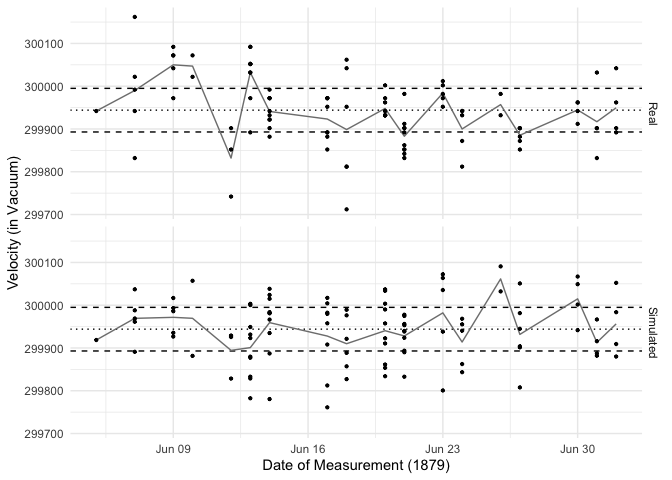
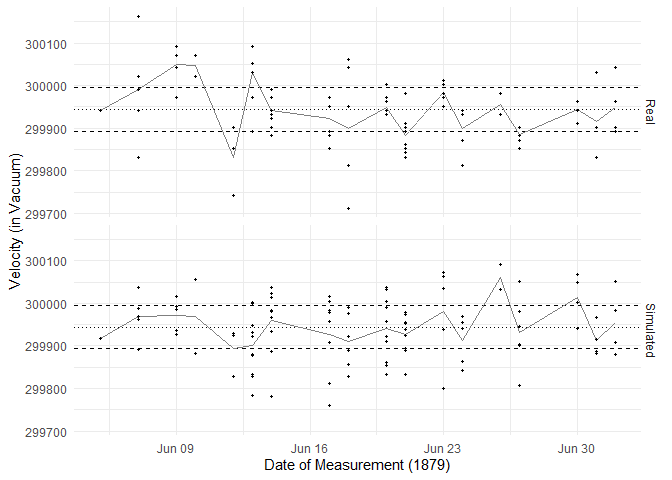
c02 rev

diff --git a/challenges/c02-michelson-assignment.md b/challenges/c02-michelson-assignment.md
@@ -170,9 +170,9 @@ df_q1 %>%
 
 **Observations**: - Write your observations here! - (Your response here)
 The recreation of the table has more significant figures. - Why might
-your table differ from Michelson’s? - (Your response here) Considering
-the time when the study was done, the mean could have been calculated by
-hand, leaving some digits behind.
+your table differ from Michelson’s? - (Your response here) When
+Michelson conducted the experiment, he could have rounded numbers to
+account for error.
 
 The `Velocity` values in the dataset are the speed of light *in air*;
 Michelson introduced a couple of adjustments to estimate the speed of
@@ -243,7 +243,9 @@ cat("Actual error:", error_real)
 uncertainty) greater or less than the true error? - (Your response here)
 Michelson’s estimate is less than the true error. - Make a quantitative
 comparison between Michelson’s uncertainty and his error. - (Your
-response here) Michelson’s uncertainty is smaller than his error.
+response here) Michelson’s uncertainty was 92 km/s, while the actual
+error was 151.542 km/s, which means the error was about 1.5 times the
+uncertainty.
 
 The following plot shows all of Michelson’s data as a [control
 chart](https://en.wikipedia.org/wiki/Control_chart); this sort of plot
@@ -320,16 +322,24 @@ df_q2 %>%
 
 ![](c02-michelson-assignment_files/figure-gfm/q4-cf-real-simulated-1.png)<!-- -->
 
-**Observations**: Similarities - (your responses here) The sign of the
-slope of the mean curve matches. Differences - (your responses here) The
-actual values of the dots, and therefore the mean values, vary.
+**Observations**: Similarities - (your responses here) The deviation of
+the points exhibit a similar range. Differences - (your responses here)
+The actual values of the dots, and therefore the mean values, vary.
 
 ### **q5** You have access to a few other variables. Construct a few visualizations of `VelocityVacuum` against these other factors. Are there other patterns in the data that might help explain the difference between Michelson’s estimate and `LIGHTSPEED_VACUUM`?
 
 ``` r
 error_vs_temp <- df_michelson %>% 
   summarize("Real_error" = LIGHTSPEED_VACUUM - Velocity, Temp)
+```
 
+    ## Warning: Returning more (or less) than 1 row per `summarise()` group was deprecated in
+    ## dplyr 1.1.0.
+    ## ℹ Please use `reframe()` instead.
+    ## ℹ When switching from `summarise()` to `reframe()`, remember that `reframe()`
+    ##   always returns an ungrouped data frame and adjust accordingly.
+
+``` r
 error_vs_temp %>% 
   ggplot(aes(x = Temp, y = Real_error)) +
   geom_point() +
@@ -341,7 +351,15 @@ error_vs_temp %>%
 ``` r
 abserror_vs_distinctness <- df_michelson %>% 
   summarize("Real_error_abs" = abs(LIGHTSPEED_VACUUM - Velocity), Distinctness)
+```
 
+    ## Warning: Returning more (or less) than 1 row per `summarise()` group was deprecated in
+    ## dplyr 1.1.0.
+    ## ℹ Please use `reframe()` instead.
+    ## ℹ When switching from `summarise()` to `reframe()`, remember that `reframe()`
+    ##   always returns an ungrouped data frame and adjust accordingly.
+
+``` r
 abserror_vs_distinctness %>% 
   ggplot(aes(x = Distinctness, y = Real_error_abs)) +
   geom_boxplot()
@@ -352,12 +370,13 @@ abserror_vs_distinctness %>%
 **Observations**:
 
 Upon implementing a regression line in the Error vs. Temperature graph,
-it shows signs that might suggest a correlation between those two
-variables. Also, there doesn’t seem to be much of a correlation between
-error and the “distinctness” of the observation. Moreover, while it was
-expected that a “better” distinctness of an observation would lead to
-less error, as the distinctness increased, so did the interquartile
-range.
+the regression line shows that there may be a correlation. However, it
+is to be noted that simply looking at the points make it clear that a
+correlation is quite unlikely. Also, there doesn’t seem to be much of a
+correlation between error and the “distinctness” of the observation.
+Moreover, while it was expected that a “better” distinctness of an
+observation would lead to less error, as the distinctness increased, so
+did the interquartile range.
 
 ## Bibliography
 
